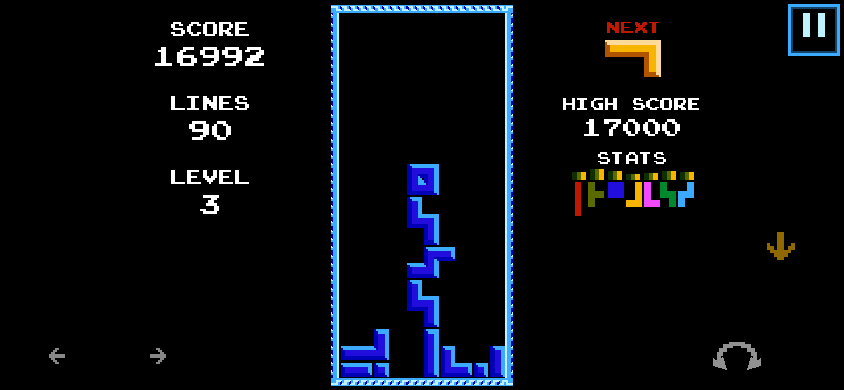
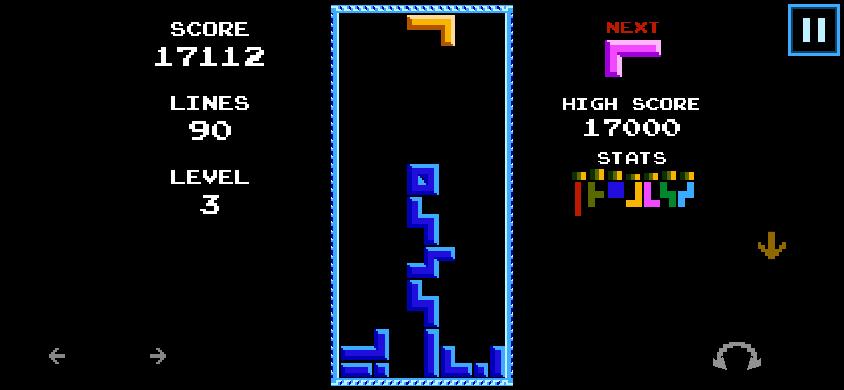
Separate the landscape drop target from rotation

diff --git a/sw.js b/sw.js
@@ -1,6 +1,6 @@
 // Run python3 tools/refresh-offline.py after modifying the game.
 // BEGIN GENERATED OFFLINE BUNDLE
-const BUILD = '8c0efb830d2763443032';
+const BUILD = '47f30831fc1ddf1268dc';
 const FILES = [
   ["app.js", "sha256-EAdeYukbQc1SgU4Jm8KH7Rxax0RT9rOqvDJY6FFnD48="],
   ["assets/arrow.png", "sha256-Xkt8bTzGyHK5hj+6p2X7RirhFsHgQqMSyP3W3DyHzBc="],
@@ -24,8 +24,8 @@ const FILES = [
   ["cartridge-audio.js", "sha256-kZGHxT/++rzA3l9MkqtlTVq8k7xCb5QwavYsi2VcFT8="],
   ["cartridge.js", "sha256-GE4dL5S9G+aODLmrarnUWTpWqp0udFtzr55GTAVNw48="],
   ["compositor.js", "sha256-XqP5hbuy9M3sOX+C6YjKIzFoPj5J8Y9TO5i7XDHwlbU="],
-  ["controls.css", "sha256-1ybYXuB5KkQjTiYlTv/esOADy3oF7CSaqk15IIkbCiQ="],
-  ["controls.js", "sha256-u+m4TakyTczslxaEXbCJdTK27jUHPRtLLmPmUpiyj4E="],
+  ["controls.css", "sha256-XTw/2H88T6KPI52wr35d7Dayq3xjAifsbMMr4JaH4es="],
+  ["controls.js", "sha256-0ym+Zv+F2Lr3PE4178q+jxHelquWd9RmsRmQqt7EEA4="],
   ["engine.js", "sha256-hiNXY6ohqtHCy7kYRbYunc6JWaF9+xY5hnSyt0yNuao="],
   ["game-ru.nes", "sha256-M/BKw5U+fW092ICDzW+Q/93IBWg9IPqEB9jC2DWxHUY="],
   ["game.nes", "sha256-U5cKKyWBn5UUu38yp7Voo/S9vYdU2p57kUICDxq46mI="],

diff --git a/controls.js b/controls.js
@@ -21,7 +21,7 @@ export function bindControls({ pad, setInput, pause }) {
     const mid = box.left + box.width * 0.5;
     const drop = down.getBoundingClientRect();
     if (x >= drop.left && x < drop.right && y >= drop.top && y < drop.bottom) {
-      return { group: portrait.matches ? 'drop' : 'action', button: 'down' };
+      return { group: 'drop', button: 'down' };
     }
     const start = box.top + box.height * (portrait.matches ? 0.38 : 0.5);
     if (y < start || y >= box.bottom || x < box.left || x >= box.right) return null;
@@ -73,6 +73,7 @@ export function bindControls({ pad, setInput, pause }) {
   pad.addEventListener('pointermove', event => {
     const id = event.pointerId;
     const touch = touches.get(id);
+    // A thumb that started on drop holds it until release, including when it slips onto rotation.
     if (!touch || touch.group === 'drop') return;
     const next = isPlaying() && readPoint(event.clientX, event.clientY);
     if (!next || next.group !== touch.group) {

diff --git a/controls.css b/controls.css
@@ -60,7 +60,13 @@
 .pad .key.held img, .pad .key:active img, .pad > .down.held, .pad > .down:active { opacity: 1; }
 .pad .key:focus-visible { outline: 2px solid var(--sky); }
 @media (orientation: landscape) {
-  .pad > .down { top: 63%; right: max(5px, calc(7.5% - 32px)); }
+  .pad > .down {
+    --drop-target-height: clamp(76px, 28%, 116px);
+    right: 0;
+    top: min(63%, calc(100% - 66px - var(--drop-target-height) / 2));
+    width: clamp(104px, 18%, 144px);
+    height: var(--drop-target-height);
+  }
 }
 @media (orientation: landscape) and (pointer: coarse) {
   .pad { --pair-width: min(28%, 202px); }
